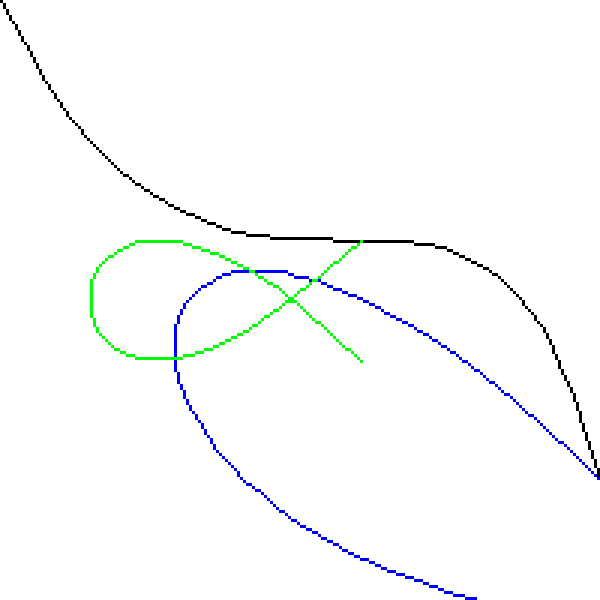
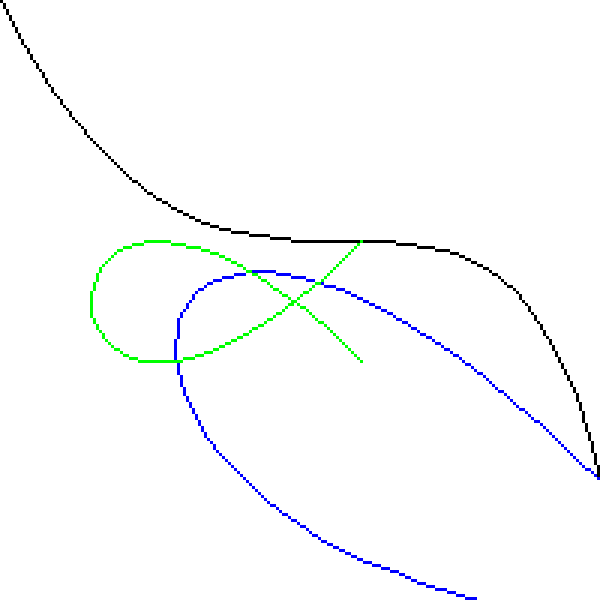
chandged the way of getting int coordinats of Point when drawing lines. Added examples of cutting

diff --git a/src/Lab4.java b/src/Lab4.java
@@ -31,13 +31,18 @@ public class Lab4 extends Lab3{
         canvasCutting.drawPolygon(polygon, Canvas.Color.BLACK);
         Point2D[] line1 = {new Point2D(0, 0), new Point2D(80, 160)};
         Point2D[] line2 = {new Point2D(30, 170), new Point2D(160, 190)};
+        Point2D[] line3 = {new Point2D(100, 59), new Point2D(200, 40)};
         canvasCutting.drawLine(line1[0], line1[1], Canvas.Color.RED);
         canvasCutting.drawLine(line2[0], line2[1], Canvas.Color.RED);
+        canvasCutting.drawLine(line3[0], line3[1], Canvas.Color.RED);
         canvasCutting.drawCyrusBeckClippedLine(line1[0], line1[1], polygon, Canvas.Color.GREEN);
         canvasCutting.drawCyrusBeckClippedLine(line2[0], line2[1], polygon, Canvas.Color.GREEN);
+        canvasCutting.drawCyrusBeckClippedLine(line3[0], line3[1], polygon, Canvas.Color.GREEN);
 
         Imgcodecs.imwrite(savePath + "curves.png", canvasCurves.getImage());
         saveScaled(canvasCurves.getImage(), 3, "curves");
+        Imgcodecs.imwrite(savePath + "cutting.png", canvasCutting.getImage());
+        saveScaled(canvasCutting.getImage(), 3, "cutting");
 
         displayImage(canvasCurves.getImage(), 3, "Bezier Curves");
         displayImage(canvasCutting.getImage(), 3, "Cutting Lines");
@@ -65,7 +70,8 @@ class CanvasLab4 extends Canvas{
     }
 
     public void drawLine(Point2D p1, Point2D p2, byte[] bgr) {
-        drawLine((int) p1.getX(), (int) p1.getY(), (int) p2.getX(), (int) p2.getY(), bgr);
+        drawLine((int) Math.round(p1.getX()), (int) Math.round(p1.getY()),
+                 (int) Math.round(p2.getX()), (int) Math.round(p2.getY()), bgr);
     }
 
     public void drawBezierCurveCubic(Point2D p0, Point2D p1, Point2D p2, Point2D p3, Color color) {
